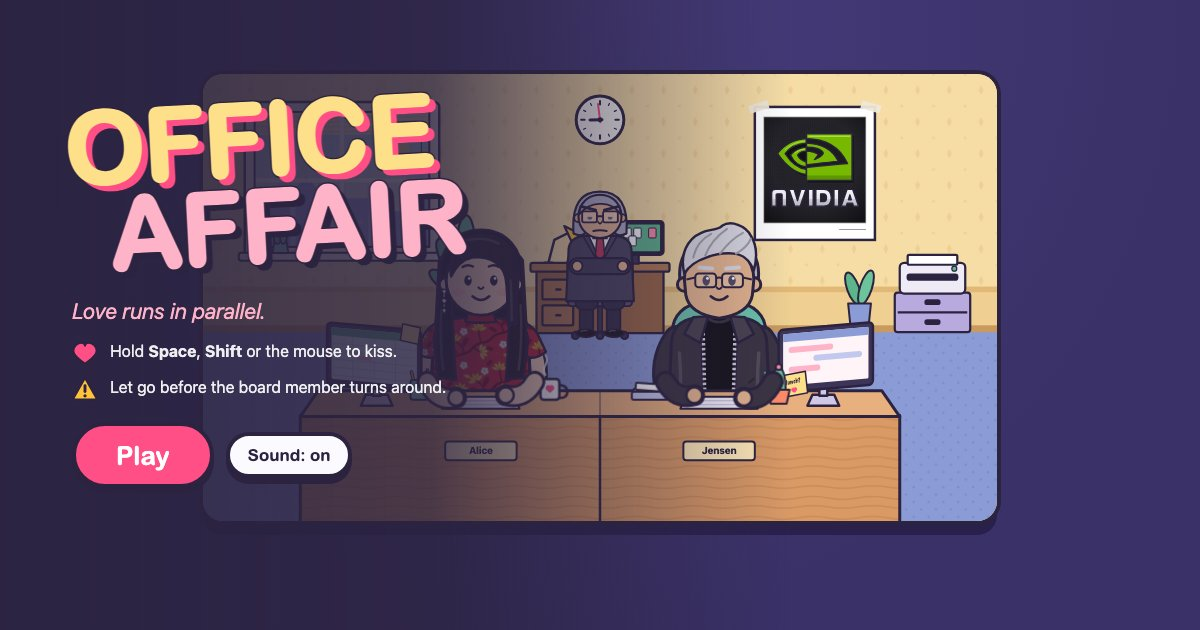
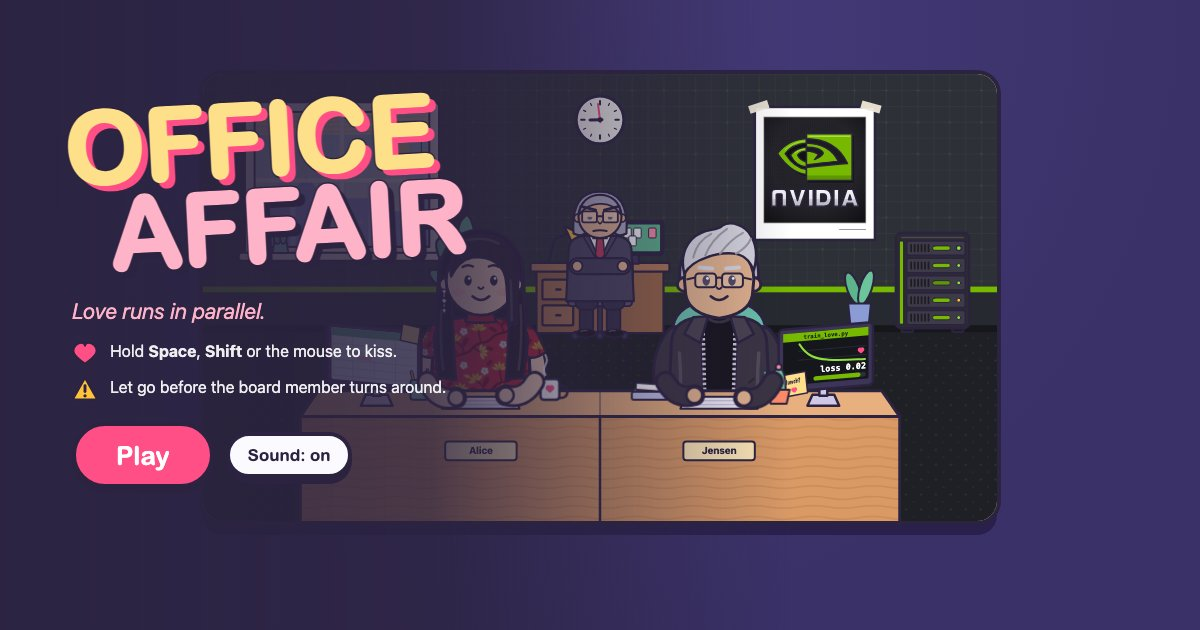
NVIDIA scene: GPU rack, GPU walker, training screen, dark palette (#36)
* NVIDIA scene: GPU rack, GPU walker, training screen, cool palette

Stories can now swap parts of the office with an optional `scene` field:
`parts` picks art from SCENE_PARTS (printer, screenR = the guy's monitor,
walkerLoad = what the walker carries) and `palette` picks a SCENE_PALETTES
entry that repaints the wallpaper, carpet and wall bands. The art lives in
the new js/scenes.js and is applied at boot next to the poster, before the
renderer looks up its ids. A story without `scene` renders as before.

The NVIDIA story uses:
- a GPU server rack in place of the printer. It keeps the printer ids, so
  the jam event still runs and reads as an overheat: "HOT!" (from the
  story copy, new COPY.scene.jam), heat waves, smoke puffs and a warning
  sign
- a walker carrying a stack of graphics cards (walkerSVG takes an
  optional load; the coffee tower is still the default)
- train_love.py on Jensen's monitor: falling loss curve, "loss 0.02",
  epoch bar
- the nvidiaLight palette: light grey grid walls, green rail and trim,
  charcoal carpet with green flecks. nvidiaDark is also defined and is a
  one-word switch in stories.js.

The renderer now reads the printer's idle light colour from the markup
instead of hard-coding it. test-story.js checks the NVIDIA scene, the
overheat, and that the office keeps its printer, coffee and wallpaper.

* NVIDIA story: dark palette; refresh the link-preview image
[…]

diff --git a/js/scenes.js b/js/scenes.js
@@ -1,0 +1,106 @@
+'use strict';
+/* Scene overrides for stories (see `scene` in js/stories.js). Parts swap one piece of the office; palettes repaint the walls
+   and carpet. The office itself stays in index.html. Ids inside a part start with s<Name> so they cannot clash with the page,
+   except the ids the renderer animates, which a part must keep (listed per slot below). */
+const SCENE_PARTS = {
+  // Inner markup of <g id="printer">, in scene coordinates (the printer sits at x 1394-1546, y 364-520).
+  // Keep printerBody (shakes), printerLight (blinks), jamText (shown; its words come from COPY.scene.jam), jamPapers with jp0..2 (fly out).
+  printer: {
+    // A GPU server rack. Its "jam" is an overheat: it shakes, the status light blinks and it puffs smoke and a warning sign.
+    gpuRack: `
+    <g stroke="#2B2340" stroke-width="4.5" stroke-linejoin="round">
+      <rect x="1408" y="506" width="22" height="14" rx="3" fill="#1C1B21"/><rect x="1510" y="506" width="22" height="14" rx="3" fill="#1C1B21"/>
+    </g>
+    <g id="printerBody" stroke="#2B2340" stroke-width="4.5" stroke-linejoin="round" stroke-linecap="round">
+      <rect x="1396" y="320" width="148" height="192" rx="10" fill="#2C2A33"/>
+      <path d="M1408 329 H1532" stroke="#4B4855" stroke-width="3"/>
+      <rect x="1403" y="336" width="9" height="168" rx="3" fill="#76B900" stroke-width="2.5"/>
+      ${[0, 1, 2, 3, 4].map(i => {
+        const y = 336 + i * 35;
+        return `
+      <rect x="1418" y="${y}" width="118" height="29" rx="4" fill="#3E3B48" stroke-width="3"/>
+      <path d="M1427 ${y + 8} v13 M1434 ${y + 8} v13 M1441 ${y + 8} v13 M1448 ${y + 8} v13 M1455 ${y + 8} v13 M1462 ${y + 8} v13" stroke="#1E1C24" stroke-width="3.5"/>
+      <rect x="1470" y="${y + 10}" width="36" height="9" rx="4.5" fill="${i === 2 ? '#5E9600' : '#76B900'}" stroke-width="2"/>
+      ${i ? `<circle cx="1523" cy="${y + 14.5}" r="4" fill="${i === 3 ? '#FFC23A' : '#8FE03C'}" stroke-width="2"/>` : ''}`;
+      }).join('')}
+      <circle id="printerLight" cx="1523" cy="350.5" r="5" fill="#8FE03C" stroke-width="2.5"/>
+    </g>
+    <g id="jamPapers" display="none" stroke="#2B2340" stroke-width="3" stroke-linejoin="round" stroke-linecap="round">
+      <path id="jp0" d="M-22,13 A11,11 0 0 1 -19,-7 A14,14 0 0 1 6,-15 A12,12 0 0 1 23,1 A10,10 0 0 1 16,13 Z" fill="#E6E8EC"/>
+      <g id="jp1"><path d="M0,-19 L20,16 L-20,16 Z" fill="#FFC23A"/><path d="M0,-6 V5" stroke-width="4"/><circle cy="10.5" r="2.4" fill="#2B2340" stroke="none"/></g>
+      <path id="jp2" d="M-22,13 A11,11 0 0 1 -19,-7 A14,14 0 0 1 6,-15 A12,12 0 0 1 23,1 A10,10 0 0 1 16,13 Z" fill="#FFB199"/>
+    </g>
+    <g id="jamText" display="none">
+      <path d="M1418 318 q-7 -7 0 -14 q7 -7 0 -14 M1522 318 q-7 -7 0 -14 q7 -7 0 -14" fill="none" stroke="#FF5A2B" stroke-width="4" stroke-linecap="round"/>
+      <text data-copy="scene.jam" x="1470" y="308" text-anchor="middle" font-family="Arial Rounded MT Bold, ui-rounded, system-ui, sans-serif" font-size="32" fill="#FF5A2B" stroke="#2B2340" stroke-width="1.5"></text>
+    </g>`,
+  },
+  // Inner markup of <g id="screenR">: the guy's desk monitor, in the monitor's own coordinates (screen at 9,9, 172×104).
+  // The guy's hand and the "lunch?" note cover the bottom left, so the words sit top and right.
+  screenR: {
+    // Training a model: a falling loss curve, the final loss and the epoch bar.
+    aiTraining: `
+    <rect x="9" y="9" width="172" height="104" rx="3" fill="#15171C" stroke="none"/>
+    <rect x="9" y="9" width="172" height="17" fill="#76B900" stroke="none"/>
+    <text x="95" y="22" text-anchor="middle" font-family="ui-monospace, Menlo, Consolas, monospace" font-weight="800" font-size="11.5" fill="#15171C" stroke="none">train_love.py</text>
+    <path d="M40 46 H176 M40 64 H176" stroke="#2A2F38" stroke-width="1.5"/>
+    <path d="M42 32 C58 58 74 64 100 68 S150 72 174 73" fill="none" stroke="#8FE03C" stroke-width="4" stroke-linecap="round"/>
+    <use href="#heartShape" transform="translate(166,58) scale(.42)" fill="#FF4F86" stroke="none"/>
+    <text x="176" y="92" text-anchor="end" font-family="ui-monospace, Menlo, Consolas, monospace" font-weight="900" font-size="17" fill="#FFFFFF" stroke="none">loss 0.02</text>
+    <rect x="70" y="99" width="106" height="9" rx="4.5" fill="#2A2F38" stroke="none"/>
+    <rect x="70" y="99" width="95" height="9" rx="4.5" fill="#76B900" stroke="none"/>`,
+  },
+  // What the walker carries (walkerSVG's load): inner markup of #wCups in the walker's coordinates, stacked up from y 0.
+  walkerLoad: {
+    // A tower of graphics cards: black shrouds, two fans, a green edge, a silver bracket.
+    gpus: [0, 1, 2, 3].map(i => `
+    <g transform="translate(${[0, -6, 5, -3][i]},${-i * 42})" stroke="#2B2340" stroke-width="4" stroke-linejoin="round" stroke-linecap="round">
+      <rect x="-64" y="-40" width="12" height="40" rx="2" fill="#C9CBD3" stroke-width="3"/>
+      <rect x="-54" y="-40" width="118" height="40" rx="6" fill="#24222A"/>
+      <path d="M-48,-36 H58" stroke="#76B900" stroke-width="4"/>
+      ${[-18, 30].map(x => `<circle cx="${x}" cy="-18" r="14" fill="#3E3B48" stroke-width="3"/>
+      <path d="M${x},-18 L${x},-30 M${x},-18 L${x + 11},-12 M${x},-18 L${x - 11},-12" stroke="#8C8899" stroke-width="3.5"/>
+      <circle cx="${x}" cy="-18" r="3.5" fill="#76B900" stroke-width="2"/>`).join('')}
+    </g>`).join(''),
+  },
+};
+
+/* Palettes: the wall pattern (a 64×64 tile), the carpet (a 30×30 tile), and the fills of the wall bands
+   (wallBand and wallTrim up top, seen on tall screens; wallRail, wallPanel and wallBase above the floor). */
+const SCENE_PALETTES = {
+  // Cool light grey with a faint green-grey grid, a green rail, a charcoal carpet with green flecks.
+  nvidiaLight: {
+    wallpaper: `<rect width="64" height="64" fill="#E9ECE8"/>
+      <path d="M0 .75 H64 M.75 0 V64 M0 32.75 H64 M32.75 0 V64" stroke="#DEE3DC" stroke-width="1.5"/>
+      <path d="M32.75 26 l4 6.75 -4 6.75 -4 -6.75z" fill="#D4DECF"/>`,
+    carpet: `<rect width="30" height="30" fill="#3C4049"/>
+      <circle cx="7" cy="7" r="2.2" fill="#4F6235"/><circle cx="22" cy="22" r="2.2" fill="#464B55"/>`,
+    fills: { wallBand: '#D9DED7', wallTrim: '#76B900', wallRail: '#76B900', wallPanel: '#CFD5CD', wallBase: '#2C2E35' },
+  },
+  // Charcoal data-centre walls with a faint grid, green trim, a dark floor.
+  nvidiaDark: {
+    wallpaper: `<rect width="64" height="64" fill="#2D3037"/>
+      <path d="M0 .75 H64 M.75 0 V64 M0 32.75 H64 M32.75 0 V64" stroke="#363A42" stroke-width="1.5"/>
+      <circle cx="32.75" cy="32.75" r="2" fill="#3F5228"/>`,
+    carpet: `<rect width="30" height="30" fill="#1E2025"/>
+      <circle cx="7" cy="7" r="2.2" fill="#2E3A20"/><circle cx="22" cy="22" r="2.2" fill="#272A30"/>`,
+    fills: { wallBand: '#24272D', wallTrim: '#76B900', wallRail: '#76B900', wallPanel: '#26292F', wallBase: '#16171B' },
+  },
+};
+
+/* The art the story picks for one slot of SCENE_PARTS, or null to keep the office's. */
+function scenePart(slot) {
+  const id = STORY.scene && STORY.scene.parts && STORY.scene.parts[slot];
+  return (id && SCENE_PARTS[slot] && SCENE_PARTS[slot][id]) || null;
+}
+
+/* Swap in the story's parts and palette. Runs at boot, before the renderer looks up the scene's ids.
+   (walkerLoad is drawn by the renderer through walkerSVG.) */
+function applyScene() {
+  ['printer', 'screenR'].forEach(slot => { const art = scenePart(slot); if (art) $(slot).innerHTML = art; });
+  const pal = STORY.scene && SCENE_PALETTES[STORY.scene.palette];
+  if (!pal) return;
+  $('wallpaper').innerHTML = pal.wallpaper;
+  $('carpet').innerHTML = pal.carpet;
+  Object.entries(pal.fills).forEach(([id, fill]) => $(id).setAttribute('fill', fill));
+}

diff --git a/tests/e2e/test-story.js b/tests/e2e/test-story.js
@@ -4,6 +4,17 @@ const url = process.env.GAME_URL || ('file://' + path.resolve(__dirname, '../../
 const ok = (c, m) => { console.log((c ? 'PASS ' : 'FAIL ') + m); if (!c) process.exitCode = 1; };
 const cards = page => page.$$eval('.pick-card', els => els.map(e => e.dataset.pick).join());
 const sep = url.includes('?') ? '&' : '?';
+// The parts of the office a story's scene can swap (js/scenes.js), and the wall colours.
+const sceneLook = page => page.evaluate(() => ({
+  rack: !!document.querySelector('#printer #printerBody #printerLight') && !document.querySelector('#printerBody rect[fill="#EEEAF6"]'),
+  printer: !!document.querySelector('#printerBody rect[fill="#EEEAF6"]'),
+  jamParts: ['jamText', 'jamPapers', 'jp0', 'jp1', 'jp2'].every(id => !!document.getElementById(id)),
+  jam: document.getElementById('jamText').textContent.trim(),
+  gpus: document.querySelectorAll('#wCups circle').length, cups: document.querySelectorAll('#wCups rect[fill="#C98A5E"]').length,
+  screen: document.getElementById('screenR').textContent.replace(/\s+/g, ' ').trim(),
+  wallpaper: document.querySelector('#wallpaper rect').getAttribute('fill'), carpet: document.querySelector('#carpet rect').getAttribute('fill'),
+  rail: document.getElementById('wallRail').getAttribute('fill'), trim: document.getElementById('wallTrim').getAttribute('fill'),
+}));
 (async () => {
   const b = await chromium.launch();
   const errs = [];
@@ -20,6 +31,22 @@ const sep = url.includes('?') ? '&' : '?';
   // No ?story: the default story (DEFAULT_STORY, today nvidia)
   ok(await page.evaluate(() => DEFAULT_STORY) === 'nvidia' && await page.evaluate(() => STORY.id) === 'nvidia', 'no ?story: the default story, nvidia');
   ok((await page.textContent('#poster')).includes('NVIDIA'), 'default poster is NVIDIA');
+  // Scene: a GPU rack for the printer, GPUs for the coffee tower, training on Jensen's screen, the story's palette
+  const sc = await sceneLook(page);
+  ok(sc.rack && !sc.printer && sc.jamParts, 'NVIDIA scene: a GPU rack replaces the printer and keeps the jam ids');
+  ok(sc.gpus >= 8 && sc.cups === 0, 'NVIDIA scene: the walker carries graphics cards, not coffee');
+  ok(sc.screen.includes('train_love.py') && sc.screen.includes('loss'), "NVIDIA scene: model training on Jensen's screen");
+  const pal = await page.evaluate(() => SCENE_PALETTES[STORY.scene.palette]);
+  ok(!!pal && sc.wallpaper !== '#F6DDA6' && sc.carpet !== '#8B9BD6' && sc.rail === pal.fills.wallRail && sc.trim === pal.fills.wallTrim, 'NVIDIA scene: the palette repaints walls, trim and carpet');
+  ok(await page.evaluate(() => Object.values(SCENE_PALETTES).every(p => p.wallpaper && p.carpet && ['wallBand', 'wallTrim', 'wallRail', 'wallPanel', 'wallBase'].every(k => p.fills[k]))), 'every palette paints every wall part');
+  // The rack's "jam" is an overheat
+  await page.evaluate(() => { const r = window.__officeAffair.renderer; r.decorT = 99; r.jamT = 1.6; });
+  await page.waitForTimeout(400);
+  const hot = await page.evaluate(() => ({ text: document.getElementById('jamText').textContent.trim(), shown: document.getElementById('jamText').style.display === 'inline',
+    flying: document.getElementById('jamPapers').style.display === 'inline' && !!document.getElementById('jp1').getAttribute('transform') }));
+  ok(hot.text === 'HOT!' && hot.shown && hot.flying, 'the rack overheats: "HOT!" (from the story copy) and puffs fly out');
+  await page.waitForTimeout(1600);
+  ok(await page.evaluate(() => document.getElementById('jamText').style.display === 'none' && document.getElementById('printerLight').getAttribute('fill') === '#8FE03C'), 'the overheat ends and the rack light turns green again');
   await page.click('#btnPlay');
   ok(await cards(page) === 'alice,kimberly,custom', 'default picker: Alice, Kimberly, Make your own');
   for (const q of ['story=nope', 'story=toString', 'story=__proto__', 'story=']) {
@@ -32,6 +59,11 @@ const sep = url.includes('?') ? '&' : '?';
   ok(await page.evaluate(() => STORY.id) === 'office', '?story=office selects the office');
   ok(await page.textContent('[data-copy="menu.howtoBoss"]') === 'Let go before the boss turns around.', 'office keeps the boss');
   ok((await page.textContent('#poster')).includes('ISABEL MARANT'), 'office poster');
+  const so = await sceneLook(page);
+  ok(so.printer && !so.rack && so.jam === 'JAM!', 'office scene: the printer, which jams');
+  ok(so.cups === 6 && so.gpus === 0, 'office scene: the walker carries the coffee tower');
+  ok(so.screen === '' && await page.$('#screenR rect[fill="#FFF4F7"]') !== null, "office scene: the guy's screen is unchanged");
+  ok(so.wallpaper === '#F6DDA6' && so.carpet === '#8B9BD6' && so.rail === '#E2B877' && so.trim === '#D9B06E', 'office scene: wallpaper, trim and carpet are unchanged');
   await page.click('#btnPlay');
   ok(await cards(page) === 'gabi,vix,custom', 'office picker: Gabi, Vix, Make your own');
 

diff --git a/index.html b/index.html
@@ -119,17 +119,17 @@
 
       <!-- ===== Back wall ===== -->
       <rect x="-200" y="-500" width="2000" height="1020" fill="url(#wallpaper)"/>
-      <rect x="-200" y="-500" width="2000" height="190" fill="#EBC98A"/>
-      <rect x="-200" y="-316" width="2000" height="10" fill="#D9B06E"/>
+      <rect id="wallBand" x="-200" y="-500" width="2000" height="190" fill="#EBC98A"/>
+      <rect id="wallTrim" x="-200" y="-316" width="2000" height="10" fill="#D9B06E"/>
       <g id="lamps" stroke="#2B2340" stroke-width="5">
         <line x1="420" y1="-310" x2="420" y2="-190"/><line x1="1180" y1="-310" x2="1180" y2="-190"/>
         <path d="M360,-130 Q420,-220 480,-130 Z" fill="#FF8FAB" stroke-linejoin="round"/>
         <path d="M1120,-130 Q1180,-220 1240,-130 Z" fill="#8ED8C4" stroke-linejoin="round"/>
         <ellipse cx="420" cy="-126" rx="22" ry="8" fill="#FFF3C4"/><ellipse cx="1180" cy="-126" rx="22" ry="8" fill="#FFF3C4"/>
       </g>
-      <rect x="-200" y="428" width="2000" height="12" fill="#E2B877"/>
-      <rect x="-200" y="440" width="2000" height="72" fill="#EFCF92"/>
-      <rect x="-200" y="506" width="2000" height="16" fill="#C99A5E"/>
+      <rect id="wallRail" x="-200" y="428" width="2000" height="12" fill="#E2B877"/>
+      <rect id="wallPanel" x="-200" y="440" width="2000" height="72" fill="#EFCF92"/>
+      <rect id="wallBase" x="-200" y="506" width="2000" height="16" fill="#C99A5E"/>
       <rect x="-200" y="520" width="2000" height="600" fill="url(#carpet)"/>
 
       <!-- Window -->
@@ -245,7 +245,7 @@
           <rect x="1420" y="364" width="100" height="20" rx="3" fill="#FFFFFF"/>
           <rect x="1420" y="404" width="100" height="10" rx="4" fill="#2B2340"/>
           <circle id="printerLight" cx="1514" cy="392" r="5" fill="#5DB58C" stroke-width="2.5"/>
-          <text id="jamText" x="1470" y="352" text-anchor="middle" font-family="Arial Rounded MT Bold, ui-rounded, system-ui, sans-serif" font-size="26" fill="#E5392B" stroke="#2B2340" stroke-width="1.5" display="none">JAM!</text>
+          <text id="jamText" data-copy="scene.jam" x="1470" y="352" text-anchor="middle" font-family="Arial Rounded MT Bold, ui-rounded, system-ui, sans-serif" font-size="26" fill="#E5392B" stroke="#2B2340" stroke-width="1.5" display="none">JAM!</text>
         </g>
         <g id="jamPapers" display="none" stroke="#2B2340" stroke-width="3" fill="#fff">
           <rect id="jp0" x="-16" y="-20" width="32" height="40" rx="2"/>
@@ -348,9 +348,11 @@
         </g>
         <g transform="translate(1160,516) skewY(-5)">
           <rect x="0" y="0" width="190" height="126" rx="9" fill="#3D3557" stroke-width="5"/>
-          <rect x="9" y="9" width="172" height="104" rx="3" fill="#FFF4F7" stroke="none"/>
-          <rect x="9" y="9" width="172" height="16" fill="#8B9BD6" stroke="none"/>
-          <g fill="#FFB3C9" stroke="none"><rect x="20" y="36" width="90" height="12" rx="6"/><rect x="70" y="56" width="98" height="12" rx="6" fill="#C3C8EE"/><rect x="20" y="76" width="64" height="12" rx="6"/></g>
+          <g id="screenR">
+            <rect x="9" y="9" width="172" height="104" rx="3" fill="#FFF4F7" stroke="none"/>
+            <rect x="9" y="9" width="172" height="16" fill="#8B9BD6" stroke="none"/>
+            <g fill="#FFB3C9" stroke="none"><rect x="20" y="36" width="90" height="12" rx="6"/><rect x="70" y="56" width="98" height="12" rx="6" fill="#C3C8EE"/><rect x="20" y="76" width="64" height="12" rx="6"/></g>
+          </g>
           <g id="sheetPop" display="none">
             <rect x="9" y="9" width="172" height="104" rx="3" fill="#FFFFFF" stroke="none"/>
             <rect x="9" y="9" width="172" height="18" fill="#2E9E5B" stroke="none"/>
@@ -556,6 +558,7 @@
 <script src="js/config.js"></script>
 <script src="js/stories.js"></script>
 <script src="js/posters.js"></script>
+<script src="js/scenes.js"></script>
 <script src="js/copy.js"></script>
 <script src="js/characters.js"></script>
 <script src="js/art.js"></script>

diff --git a/js/stories.js b/js/stories.js
@@ -4,11 +4,16 @@
    - guy: { mode: 'random' } for a new random guy every round, or { mode: 'named', id } for one guy from GUY_CHARACTERS.
    - poster: a POSTERS id from js/posters.js, or null to keep the office poster in index.html.
    - copy: lines that differ from js/copy.js (same keys); everything else keeps the default words.
+   - scene (optional): office pieces to swap, from js/scenes.js. parts: { slot: id } picks art from SCENE_PARTS
+     (printer, screenR = the guy's monitor, walkerLoad = what the walker carries); palette: a SCENE_PALETTES id for the
+     walls and carpet. Leave it out (or leave out a slot) to keep the office as drawn in index.html.
    Each story saves under its own keys: pick.<id> and best.<id>. */
 const STORIES = {
   office: { id: 'office', girls: null, guy: { mode: 'random' }, poster: null },
   nvidia: {
     id: 'nvidia', girls: ['alice', 'kimberly'], guy: { mode: 'named', id: 'jensen' }, poster: 'nvidia',
+    // A GPU rack for the printer, GPUs for the coffee tower, model training on Jensen's screen. Palette: nvidiaLight or nvidiaDark.
+    scene: { parts: { printer: 'gpuRack', walkerLoad: 'gpus', screenR: 'aiTraining' }, palette: 'nvidiaDark' },
     // The watcher is a board member, not the boss.
     copy: {
       menu: { tagline: 'Love runs in parallel.', howtoBoss: 'Let go before the board member turns around.' },
@@ -19,6 +24,7 @@ const STORIES = {
         caught: ['HR would like a word.', "That benchmark won't save you.", 'The board would like a word.', 'Caught red-lipped!'],
         win: 'Love wins. The stock goes up anyway.',
       },
+      scene: { jam: 'HOT!' }, // the GPU rack overheats instead of jamming
       thoughts: {
         idle: ["Where's the earnings deck?", 'Is it keynote day yet?', 'Interesting...', 'I sense a supply issue.', 'Why is everyone smiling?', 'Need more compute.', 'Who moved my stock options?'],
         phone: ['Mm-hmm. Love that for the share price.', "Let's take this offline.", 'Per my last board memo...'],

diff --git a/js/renderer.js b/js/renderer.js
@@ -4,7 +4,7 @@ class Renderer {
   constructor() {
     this.scene = $('scene');
     $('mgrBody').innerHTML = managerSVG();
-    $('walker').innerHTML = walkerSVG();
+    $('walker').innerHTML = walkerSVG(scenePart('walkerLoad'));
     this.chars = {};
     this.buildChar('L');
     this.buildChar('R');
@@ -16,6 +16,7 @@ class Renderer {
       'plantL', 'plantR', 'hearts', 'notes'];
     this.el = {};
     ids.forEach(id => { this.el[id] = $(id); });
+    this.lightOn = this.el.printerLight.getAttribute('fill'); // the printer's idle light (a story's scene may recolour it)
     const phoneArm = g => ({ paths: [...g.children].filter(n => n.tagName === 'path'), hand: g.querySelector('.phone-hand'), k: 0 });
     this.phoneArms = { R: phoneArm(this.el.actPhone), L: phoneArm(this.el.actPhoneL) };
     ['streakBadge', 'streakText', 'streakShadow', 'streakFever'].forEach(id => { this.el[id] = $(id); });
@@ -547,7 +548,7 @@ class Renderer {
       this.jamT -= dt;
       const on = this.jamT > 0;
       vis(e.jamText, on); vis(e.jamPapers, on);
-      e.printerLight.setAttribute('fill', on && Math.sin(t * 20) > 0 ? '#E5392B' : '#5DB58C');
+      e.printerLight.setAttribute('fill', on && Math.sin(t * 20) > 0 ? '#E5392B' : this.lightOn);
       e.printerBody.setAttribute('transform', on && !REDUCED ? `translate(${(Math.sin(t * 70) * 2.5).toFixed(2)},0)` : '');
       const k = 1 - clamp(this.jamT / 1.6, 0, 1);
       [e.jp0, e.jp1, e.jp2].forEach((p, i) => {

diff --git a/js/art.js b/js/art.js
@@ -484,7 +484,8 @@ function managerSVG() {
   </g>`;
 }
 
-function walkerSVG() {
+/* The walker. load: markup for what he carries (inside #wCups, stacked up from 0); default a coffee tower. */
+function walkerSVG(load = null) {
   const cups = Array.from({ length: 6 }, (_, i) => `
     <g transform="translate(0,${-i * 36})">
       <path d="M-22,0 L22,0 L18,-34 L-18,-34 Z" fill="#fff" ${SW(4)}/>
@@ -502,6 +503,6 @@ function walkerSVG() {
     <path d="M-30,-244 Q-24,-276 6,-272 Q30,-268 32,-240 Q14,-256 -30,-244 Z" fill="${INK}"/>
     <path d="M-12,-226 L-12,-220 M12,-226 L12,-220" ${SW(5)}/>
     <ellipse cx="0" cy="-210" rx="6" ry="5" fill="#7A2840"/>
-    <g id="wCups" transform="translate(0,-262)">${cups}</g>`;
+    <g id="wCups" transform="translate(0,-262)">${load || cups}</g>`;
 }
 

diff --git a/js/copy.js b/js/copy.js
@@ -14,6 +14,8 @@ const COPY_DEFAULT = {
     howtoBoss: 'Let go before the boss turns around.',
   },
   select: { title: "Who's clocking in?" },
+  // Words drawn in the office scene: the sign over the printer when it jams.
+  scene: { jam: 'JAM!' },
   pause: {
     from: 'The break room', re: 'Coffee break',
     title: 'Paused', sub: "The boss can't see you. Probably.",

diff --git a/js/main.js b/js/main.js
@@ -1,6 +1,7 @@
 'use strict';
 /* Boot, layout, input wiring and the main loop */
 if (STORY.poster && POSTERS[STORY.poster]) $('poster').innerHTML = POSTERS[STORY.poster];
+applyScene(); // the story's scene parts and palette, before the renderer looks up their ids
 const renderer = new Renderer();
 const game = new Game();
 ui.init();

diff --git a/README.md b/README.md
@@ -45,8 +45,9 @@ Tuning lives in `MODES` in `js/config.js`. A mode holds everything a difficulty 
 | `css/style.css` | All styles |
 | `js/util.js` | Small helpers and the `localStorage` wrapper |
 | `js/config.js` | Game rules and tuning |
-| `js/stories.js` | Stories: which cast, poster and words a game uses. `DEFAULT_STORY` (today `nvidia`) is the game you get; `?story=office` is Gabi and Vix |
+| `js/stories.js` | Stories: which cast, poster, scene and words a game uses. `DEFAULT_STORY` (today `nvidia`) is the game you get; `?story=office` is Gabi and Vix |
 | `js/posters.js` | Poster artwork for stories |
+| `js/scenes.js` | Scene overrides for stories: office parts to swap (the NVIDIA GPU rack, GPU walker, training screen) and wall/carpet palettes |
 | `js/copy.js` | All the game's words (menu, toasts, the boss's thoughts, endings, memos). Edit text here; a story can override any line |
 | `js/characters.js` | Every character as data: the girls you can play, the "Make your own" defaults and wardrobe, the guy's names and palettes |
 | `js/cast.js` | Your pick, your saved custom girl, and the random guy |
